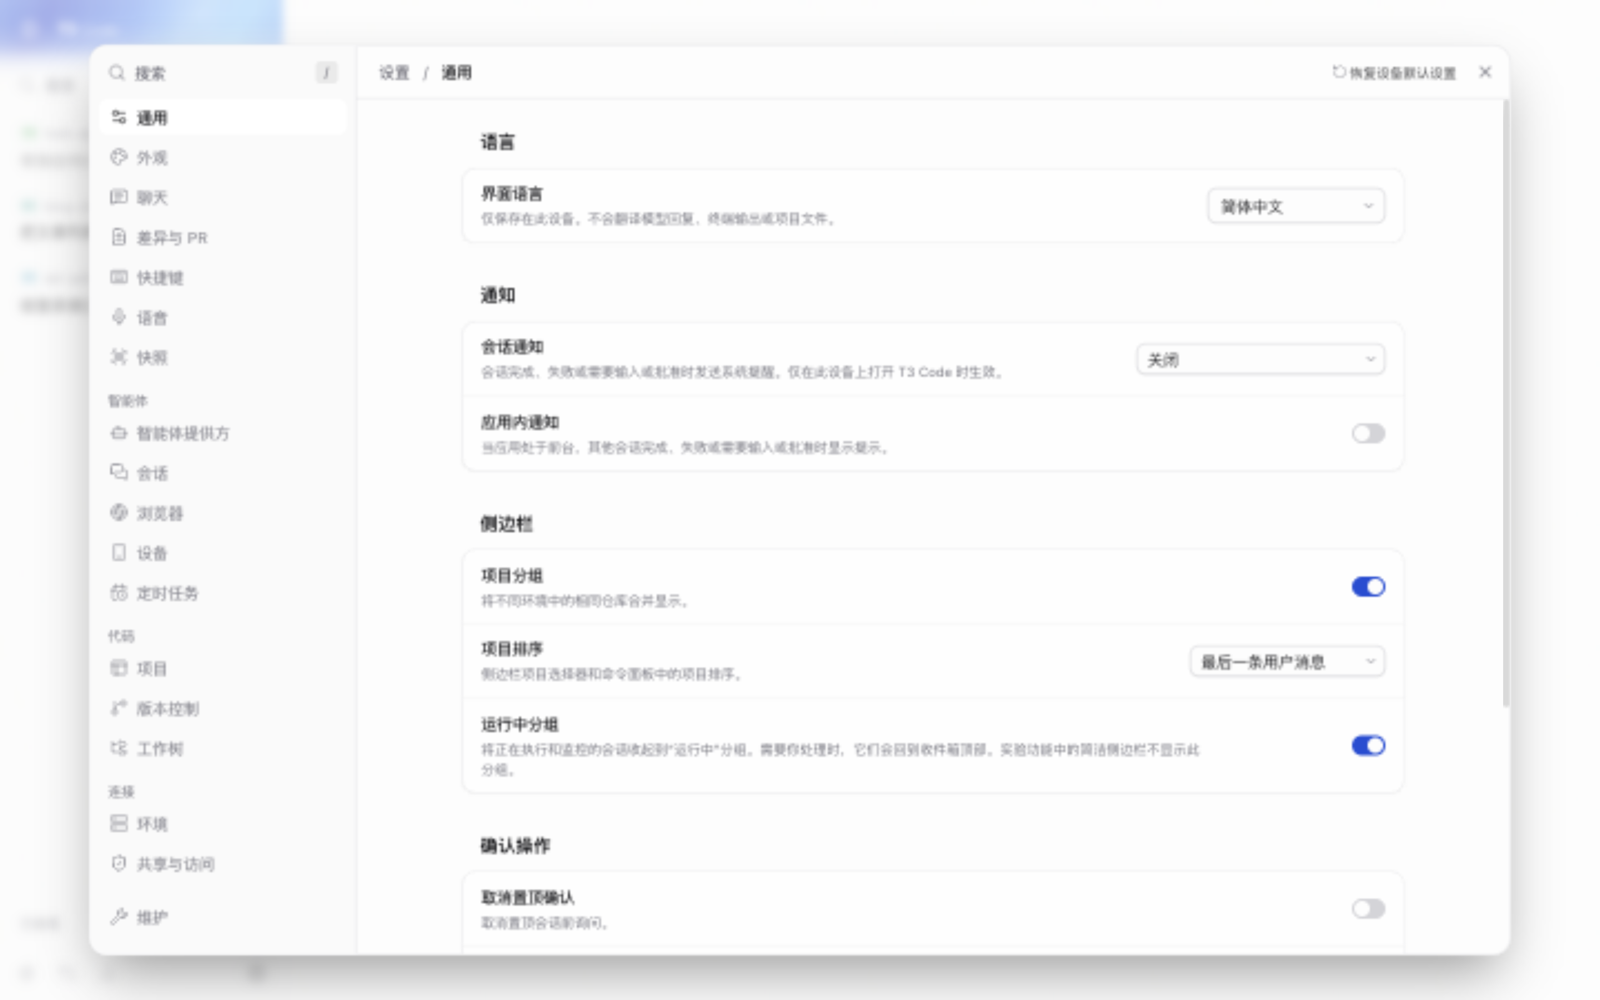
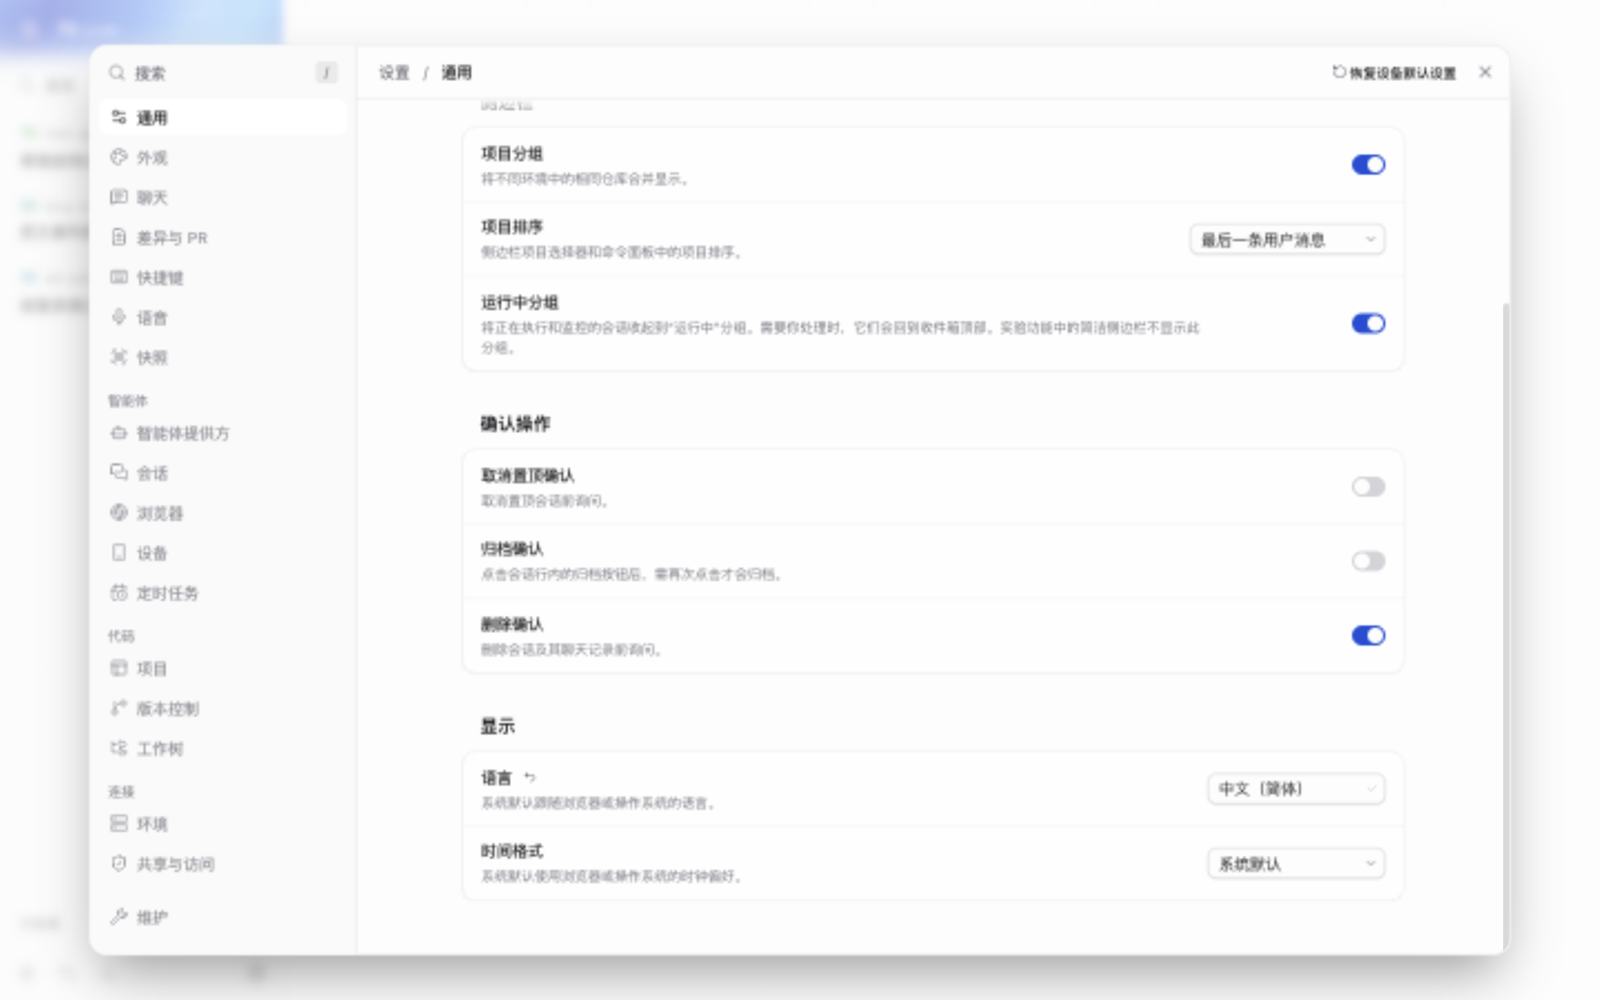
docs(fork): 按新的语言设置位置更新说明和设置页截图

diff --git a/docs/user/chinese.md b/docs/user/chinese.md
@@ -4,11 +4,11 @@
 
 ## 切换语言
 
-打开 **设置 → 通用 → 语言 → 界面语言**（英文界面下是 **Settings → General → Language → Interface language**），选择 **简体中文** 或 **English**，立即生效，无需重启。也可以在设置搜索里输入“语言”或“language”。
+打开 **设置 → 通用 → 显示 → 语言**（英文界面下是 **Settings → General → Display → Language**），选择 **中文（简体）**、**English** 或 **系统默认**，立即生效，无需重启。也可以在设置搜索里输入“语言”或“language”。
 
-第一次打开时，Web 版跟随浏览器的首选语言，桌面应用跟随系统的首选语言：中文显示简体中文，其他语言显示英文。选择只保存在当前浏览器或桌面客户端里，不会同步到其他设备。浏览器禁止存储时，本次仍可切换，但重启后可能恢复默认。
+默认是“系统默认”：Web 版跟随浏览器的首选语言，桌面应用跟随系统的首选语言，首选中文时显示简体中文。官方另外支持的语言（如西班牙语）只翻译了官方覆盖的那部分文字，其余显示英文。以前在中文版里选过的语言，升级后会自动保留。选择只保存在当前浏览器或桌面客户端里，不会同步到其他设备。浏览器禁止存储时，本次仍可切换，但重启后可能恢复默认。
 
-桌面应用的原生菜单、右键菜单和“检查更新”提示框跟随系统语言，不跟随上面的界面语言设置；改了系统语言后需要重启应用。
+桌面应用的原生菜单、右键菜单和“检查更新”提示框跟随系统语言，不跟随上面的语言设置；改了系统语言后需要重启应用。
 
 ## 汉化范围
 
